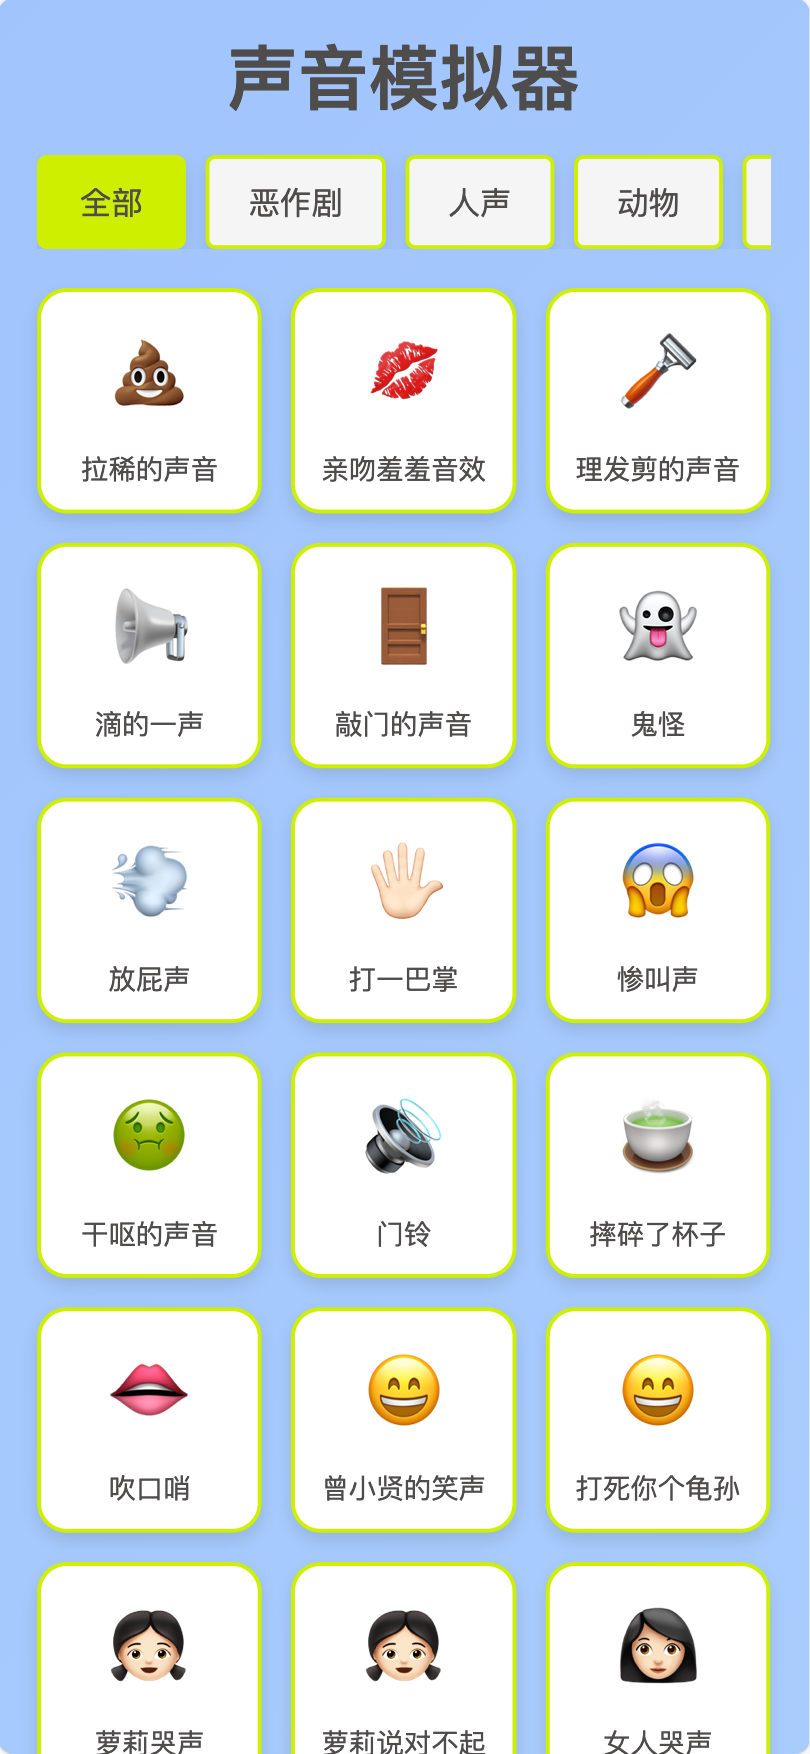
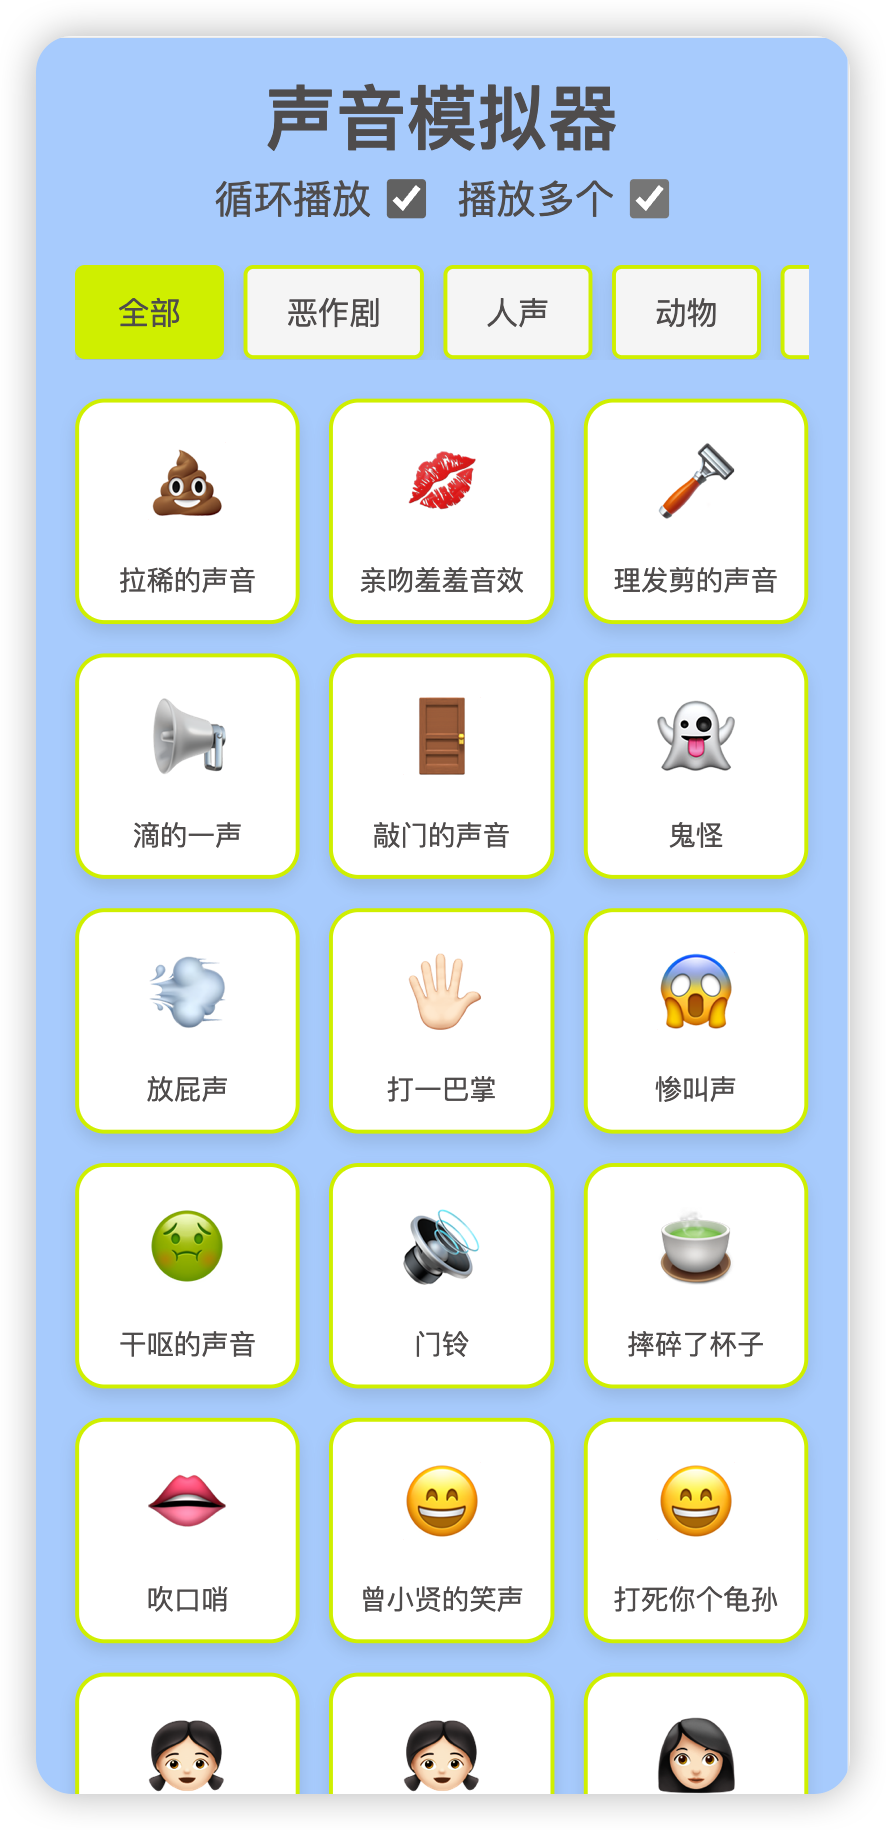
update loop

diff --git a/src/App.vue b/src/App.vue
@@ -1,25 +1,41 @@
 <template>
-  <div class="container">
-    <div class="flex items-center justify-center pb-5 text-4xl font-bold">声音模拟器</div>
-    <!-- Tabs with "All" option -->
-    <div class="tabs-wrapper">
-      <div class="tabs">
-        <button :class="{ active: activeTab === -1 }" @click="activeTab = -1">
-          全部
-        </button>
-        <button v-for="(label, index) in LABELS" :key="label.id" :class="{ active: activeTab === index }"
-          @click="activeTab = index">
-          {{ label.name }}
-        </button>
+  <div class="app">
+    <div class="container">
+      <div class="flex items-center justify-center pb-2">
+        <div class="text-4xl font-bold">声音模拟器</div>
       </div>
-    </div>
+      <div class="flex items-center justify-center pb-5">
+        <label class="flex items-center mr-4">
+          <span class="mr-2 text-xl">循环播放</span>
+          <input type="checkbox" v-model="isLooping" class="w-[20px] h-[20px]" />
+          <span class="toggle-label"></span>
+        </label>
+        <label class="flex items-center">
+          <span class="mr-2 text-xl">播放多个</span>
+          <input type="checkbox" v-model="isMultiple" class="w-[20px] h-[20px]" />
+          <span class="toggle-label"></span>
+        </label>
+      </div>
+      <!-- Tabs with "All" option -->
+      <div class="tabs-wrapper">
+        <div class="tabs">
+          <button :class="{ active: activeTab === -1 }" @click="activeTab = -1">
+            全部
+          </button>
+          <button v-for="(label, index) in LABELS" :key="label.id" :class="{ active: activeTab === index }"
+            @click="activeTab = index">
+            {{ label.name }}
+          </button>
+        </div>
+      </div>
 
-    <!-- Sounds grid -->
-    <div class="sounds-grid">
-      <div v-for="sound in filteredSounds" :key="sound.id" class="sound-item"
-        :class="{ playing: currentPlayingIds.includes(sound.id) }" @click="togglePlaySound(sound.id)">
-        <div class="image">{{ sound.image }}</div>
-        <div class="name">{{ sound.name }}</div>
+      <!-- Sounds grid -->
+      <div class="sounds-grid">
+        <div v-for="sound in filteredSounds" :key="sound.id" class="sound-item"
+          :class="{ playing: currentPlayingIds.includes(sound.id) }" @click="togglePlaySound(sound.id)">
+          <div class="image">{{ sound.image }}</div>
+          <div class="name">{{ sound.name }}</div>
+        </div>
       </div>
     </div>
   </div>
@@ -38,6 +54,8 @@ SOUND_DATA.forEach(sound => {
 const activeTab = ref(-1); // 默认 -1 表示 "全部"
 const currentPlayingIds = ref([]); // 当前正在播放的音频 ID 数组
 const audioInstances = ref({}); // 用于保存音频实例
+const isLooping = ref(false); // 循环播放开关
+const isMultiple = ref(false); // 播放多个开关
 
 // 过滤声音，基于选择的标签
 const filteredSounds = computed(() => {
@@ -56,8 +74,12 @@ const togglePlaySound = (id) => {
   if (currentPlayingIds.value.includes(id)) {
     stopPlaying(id);
   } else {
-    // 如果正在播放的音频数量小于 5，播放新音频
-    if (currentPlayingIds.value.length < 5) {
+    if (isMultiple.value) {
+      // 如果允许多个播放，播放新音频
+      playSound(id);
+    } else {
+      // 如果不允许多个播放，则停止所有并播放新音频
+      stopAllSounds();
       playSound(id);
     }
   }
@@ -67,7 +89,7 @@ const togglePlaySound = (id) => {
 const playSound = (id) => {
   const src = audioPaths[id]; // 获取本地音频路径
   const audio = new Audio(src);
-  audio.loop = true; // 设置音频循环播放
+  audio.loop = isLooping.value; // 根据循环播放开关设置
 
   audio.onerror = () => {
     console.error("音频加载失败，无法播放音频文件: ", src);
@@ -82,7 +104,9 @@ const playSound = (id) => {
 
   // 在音频结束时移除 ID
   audio.onended = () => {
-    stopPlaying(id);
+    if (!isLooping.value) {
+      stopPlaying(id); // 如果不是循环播放，则停止
+    }
   };
 };
 
@@ -104,11 +128,20 @@ const stopAllSounds = () => {
 </script>
 
 <style scoped>
-.container {
-  padding: 20px;
+.app {
+  display: flex;
+  flex-direction: column;
+  align-items: center;
   background: #A7CBFD;
+}
+
+.container {
+  width: 100%;
+  padding: 20px;
+
   min-height: 100vh;
   color: #4f4c4c;
+
 }
 
 .tabs-wrapper {

diff --git a/dev-dist/sw.js b/dev-dist/sw.js
@@ -82,7 +82,7 @@ define(['./workbox-b5f7729d'], (function (workbox) { 'use strict';
     "revision": "3ca0b8505b4bec776b69afdba2768812"
   }, {
     "url": "index.html",
-    "revision": "0.d79fsh9klko"
+    "revision": "0.0k11h705ono"
   }], {});
   workbox.cleanupOutdatedCaches();
   workbox.registerRoute(new workbox.NavigationRoute(workbox.createHandlerBoundToURL("index.html"), {

diff --git a/index.html b/index.html
@@ -5,7 +5,7 @@
   <meta charset="UTF-8" />
   <link rel="icon" href="/favicon.ico" />
   <meta name="viewport" content="width=device-width, initial-scale=1.0" />
-  <title>Vue3 Sound Simulator</title>
+  <title>声音模拟器 - Vue3 Sound Simulator</title>
 </head>
 
 <body>

diff --git a/README.md b/README.md
@@ -17,6 +17,13 @@
 <img src="./screenshot/screenshot1.png" width="200">
 </p>
 
+## 更新
+
+#### 2024.10.24
+
+1. 新增循环播放和播放多个功能
+   ...
+
 ## 技术栈
 
 - **Vue 3**: 现代前端框架
